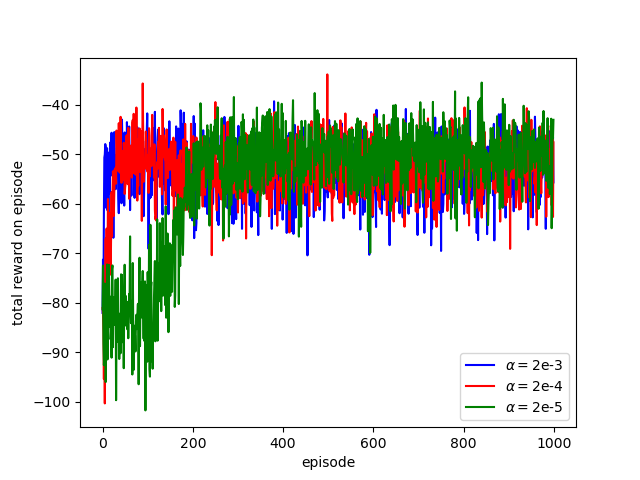
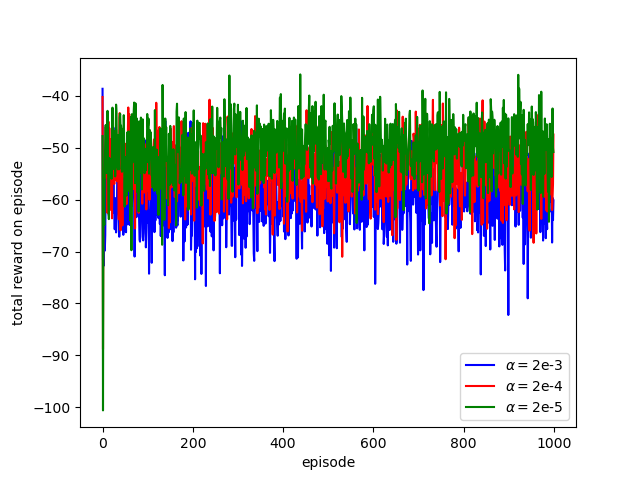
add reinforce w baseline

diff --git a/chapter-13/short_corridor.py b/chapter-13/short_corridor.py
@@ -13,40 +13,45 @@ from env import ShortCorridor
 
 class REINFORCE:
     '''
-    REINFORCE algorithm
+    REINFORCE agent
     '''
 
-    def __init__(self, env: ShortCorridor, 
-                alpha: float, 
+    def __init__(self, env: ShortCorridor,
                 gamma: float,
                 epsilon: float,
-                theta: np.ndarray):
+                alpha: float, 
+                n_eps: int) -> None:
         '''
-        Params
+        Parameters
         ------
-        env: ShortCorridor
-        alpha: step size
+        env: short-corridor env
         gamma: discount factor
-        theta: 
+        epsilon: exploration parameter
+        alpha: step size
+        n_eps: number of episodes
         '''
         self.env = env
-        self.alpha = alpha
         self.gamma = gamma
         self.epsilon = epsilon
-        self.theta = theta
+        self.alpha = alpha
+        self.n_eps = n_eps
+        self.theta = np.zeros(len(env.action_space))
         # feature mapping
         self.x = lambda s, a: np.array([int(a == self.env.action_space[1]), 
                                         int(a == self.env.action_space[0])])
+
+    def __call__(self, env: ShortCorridor,
+                gamma: float,
+                epsilon: float,
+                alpha: float, 
+                n_eps: int):
+        return REINFORCE(env, gamma, epsilon, alpha, n_eps)
 
 
     def preference(self, state: int, action: int) -> float:
         '''
         Linear action preferences
-
-        Params
-        ------
-        state: state of the agent
-        action: action taken at state @state
+            h(s,a,theta) = theta.dot(x)
         '''
         feature_vector = self.x(state, action)
         return self.theta.dot(feature_vector)
@@ -55,11 +60,7 @@ class REINFORCE:
     def pi(self, state: int, action: int) -> float:
         '''
         Softmax in action preferences
-
-        Params
-        ------
-        state: state of the agent
-        action: action taken at state @state
+            pi(s,a,theta) = exp(h(s,a,theta)) / sum_{b}exp(h(s,b,theta))
         '''
         def _softmax(zi, z):
             zmax = np.max(z)
@@ -81,15 +82,14 @@ class REINFORCE:
         action = self.env.action_space[1] \
             if np.random.binomial(1, pi[state][self.env.action_space[1]]) \
             else self.env.action_space[0]
-
-        # if not np.random.binomial(1, self.epsilon):
-        #     action = np.random.choice(self.env.action_space)
-        # else:
-        #     action = self.env.action_space[np.argmax(pi[state])]
         return action
 
 
     def eligibility_vector(self, state: int, action: int) -> np.ndarray:
+        '''
+        Compute eligibility vector
+            = x(s,a) - sum_{b}(pi(a|s) * x(s,b))
+        '''
         mean_feature = 0
         for action_ in self.env.action_space:
             mean_feature += self.pi(state, action_) * self.x(state, action_)
@@ -98,52 +98,139 @@ class REINFORCE:
 
 
     def update(self, state: int,
-                action: int, return_: float, step: int) -> None:
+                action: int, 
+                return_: float, 
+                step: int) -> None:
+        '''
+        Update theta
+            theta := theta + alpha * gamma^t * G * eligibility_vector
+
+        Parameters
+        ------
+        state: state of the agent at @step
+        action: action taken at @step
+        return_: discounted cumulative reward at @step
+        step: time step
+        '''
         eligibility_vector = self.eligibility_vector(state, action)
-        self.theta += self.alpha * (self.gamma**step) \
-                * return_ * eligibility_vector
+        a = self.alpha * (self.gamma**step) * return_ * eligibility_vector
+        self.theta += self.alpha * (self.gamma**step) * return_ * eligibility_vector
 
 
-    def run(self) -> float:
+    def run(self) -> np.ndarray:
         '''
-        Perform an episode
-        '''
-        state = self.env.reset()
-        trajectory = []
-        pi = [[self.pi(state_, action_) for action_ in self.env.action_space] \
-                    for state_ in self.env.state_space]
-        total_reward = 0
+        Perform a run
 
-        # Generate episode + compute cumulative rewards
-        while True:
-            action = self.select_action(state, pi)
-            next_state, reward, terminated = self.env.step(action)
+        Returns
+        -------
+        rewards: total reward on episodes
+        '''
+        rewards = np.zeros(self.n_eps)
+
+        for ep in range(self.n_eps):
+            state = self.env.reset()
+            trajectory = []
+            pi = [[self.pi(state_, action_) for action_ in self.env.action_space] \
+                        for state_ in self.env.state_space]
+
+            # Generate episode + compute cumulative rewards
+            while True:
+                action = self.select_action(state, pi)
+                next_state, reward, terminated = self.env.step(action)
+                for t in range(len(trajectory)):
+                    trajectory[t][3] += self.gamma**(len(trajectory) - t) * reward
+                trajectory.append([state, action, reward, reward])
+                if terminated:
+                    break
+                state = next_state
+
             for t in range(len(trajectory)):
-                trajectory[t][3] += self.gamma**(len(trajectory) - t) * reward
-            trajectory.append([state, action, reward, reward])
-            if terminated:
-                break
-            state = next_state
+                state, action, reward, return_ = trajectory[t]
+                self.update(state, action, return_, t)
+                rewards[ep] += reward
 
-        for t in range(len(trajectory)):
-            state, action, reward, return_ = trajectory[t]
-            self.update(state, action, return_, t)
-            total_reward += reward
-
-        return total_reward
+        return rewards
 
 
-if __name__ == '__main__':
-    n_states = 3
-    start_state = 0 
-    terminal_state = 3
-    switched_states = [1]
-    env = ShortCorridor(n_states, start_state, terminal_state, switched_states)
+class REINFORCEBaseline(REINFORCE):
+    '''
+    REINFORCE with baseline
+
+        Here we choose the approximate state-value function 
+            hat(v)(s,w) as the baseline and let hat(v) = w
+    '''
+
+    def __init__(self, env: ShortCorridor,
+                gamma: float,
+                epsilon: float,
+                alpha_w: float,
+                alpha: float,
+                n_eps: int) -> None:
+        '''
+        Parameters
+        ------
+        env: short-corridor env
+        gamma: discount factor
+        epsilon: exploration parameter
+        alpha_w: step size for w update
+        alpha: step size for theta update
+        n_eps: number of episodes
+        '''
+        super().__init__(env, gamma, epsilon, alpha, n_eps)
+        self.alpha_w = alpha_w
+        self.w = 0
+
+
+    def __call__(self, env: ShortCorridor,
+                gamma: float,
+                epsilon: float,
+                alpha_w: float,
+                alpha_theta: float,
+                n_ep: int):
+        return REINFORCEBaseline(env, gamma, epsilon, 
+            alpha_w, alpha_theta, n_eps)
+
+
+    def update(self, state: int,
+                action: int,
+                return_: float,
+                step: int) -> None:
+        '''
+        Update policy parameter theta, state-value weight w
+            delta = return - w
+            w := w + alpha_w * delta
+            theta := theta + alpha_theta * gamma^t * delta * eligibility_vector
+
+        Parameters
+        ------
+        state: state of the agent at @step
+        action: action taken at @step
+        return_: discounted cumulative reward at @step
+        step: time step
+        '''
+        delta = return_ - self.w
+        eligibility_vector = self.eligibility_vector(state, action)
+        self.w += self.alpha_w * delta
+        self.theta += self.alpha * self.gamma**step * delta * eligibility_vector
+
+
+def reinforce_plot(env: ShortCorridor,
+                gamma: float,
+                epsilon: float,
+                n_runs: int,
+                n_eps: int) -> None:
+    '''
+    Plot REINFORCE
+
+    Parameters
+    ----------
+    env: short-corridor env
+    gamma: discount factor
+    epsilon: exploration parameter
+    n_runs: number of runs
+    n_eps: number of episodes
+    '''
     alphas = [2e-3, 2e-4, 2e-5]
-    gamma = 1
-    epsilon = 0.05
-    n_runs = 100
-    n_eps = 1000
     rewards = np.zeros((len(alphas), n_runs, n_eps))
     colors = ['blue', 'red', 'green']
     labels = ['2e-3', '2e-4', '2e-5']
@@ -151,12 +238,8 @@ if __name__ == '__main__':
     for alpha_idx, alpha in enumerate(alphas):
 
         for run in trange(n_runs):
-            
-            theta = np.array([-1.47, 1.47])
-            for ep in range(n_eps):
-                reinforce = REINFORCE(env, alpha, gamma, epsilon, theta)
-                total_reward = reinforce.run()
-                rewards[alpha_idx, run, ep] = total_reward
+            reinforce = REINFORCE(env, gamma, epsilon, alpha, n_eps)
+            rewards[alpha_idx, run, :] = reinforce.run()
 
     for i in range(len(alphas)):
         plt.plot(np.arange(n_eps), rewards[i].mean(axis=0), \
@@ -165,6 +248,72 @@ if __name__ == '__main__':
     plt.ylabel('total reward on episode')
     plt.xlabel('episode')
     plt.legend(loc='lower right')
-
     plt.savefig('./short-corridor-reinforce.png')
     plt.close()
+
+
+def reinforce_baseline_plot(env: ShortCorridor,
+                gamma: float,
+                epsilon: float,
+                n_runs: int,
+                n_eps: int) -> None:
+    '''
+    Plot REINFORCE w/ baseline
+
+    Parameters
+    ----------
+    env: short-corridor env
+    gamma: discount factor
+    epsilon: exploration parameter
+    n_runs: number of runs
+    n_eps: number of episodes
+    '''
+    alpha = 2e-4
+    alpha_theta = 10 * alpha
+    alpha_w = 100 * alpha
+
+    methods = [
+        {
+            'agent': REINFORCEBaseline,
+            'name': 'REINFORCE with baseline',
+            'params': [env, gamma, epsilon, alpha_theta, alpha_w, n_eps]
+        },
+        {
+            'agent': REINFORCE,
+            'name': 'REINFORCE',
+            'params': [env, gamma, epsilon, alpha, n_eps]
+        }
+    ]
+
+    rewards = np.zeros((len(methods), n_runs, n_eps))
+
+    for i, method in enumerate(methods):
+        print(f'{method["name"]}')
+
+        for run in trange(n_runs):
+            agent = method['agent'](*method['params'])
+            rewards[i, run, :] = agent.run()
+
+    for i, method in enumerate(methods):
+        plt.plot(np.arange(n_eps), rewards[i].mean(axis=0), label=method['name'])
+
+    plt.ylabel('total reward on episode')
+    plt.xlabel('episode')
+    plt.legend(loc='lower right')
+    plt.savefig('./short-corridor-reinforce-baseline.png')
+    plt.close()
+
+
+if __name__ == '__main__':
+    n_states = 3
+    start_state = 0 
+    terminal_state = 3
+    switched_states = [1]
+    env = ShortCorridor(n_states, start_state, terminal_state, switched_states)
+    gamma = 1
+    epsilon = 0.05
+    n_runs = 100
+    n_eps = 1000
+
+    reinforce_plot(env, gamma, epsilon, n_runs, n_eps)
+    reinforce_baseline_plot(env, gamma, epsilon, n_runs, n_eps)

diff --git a/utils/env.py b/utils/env.py
@@ -607,3 +607,13 @@ class ShortCorridor(Env):
 
         return next_state, reward, terminated
 
+
+class BairdCounterexample(Env):
+    '''
+    Baird's counterexample
+    '''
+
+    def __init__(self, n_states: int) -> None:
+        self.n_states = n_states
+        self.state_space = np.arange(n_states)
+

diff --git a/chapter-11/counterexample.py b/chapter-11/counterexample.py
@@ -1,0 +1,4 @@
+import numpy as np
+import matplotlib.pyplot as plt
+
+

diff --git a/README.md b/README.md
@@ -117,6 +117,9 @@ Many ideas in the solutions are inspired by or taken from this well-known [repo]
 	- Code: [view](./chapter-10/access_control.py)
 	- Result: 
 #### Chapter 11: Off-policy Methods with Approximation
+- [ ] Baird's counterexample - 
+	- Code: [view](./chapter-11/counterexample.py)
+	- Result: 
 #### Chapter 12: Eligible Traces
 - [x] Random Walk - **Offline lambda-return**
 	- Code: [view](./chapter-12/random_walk.py)
@@ -140,6 +143,6 @@ Many ideas in the solutions are inspired by or taken from this well-known [repo]
 - [x] Short Corridor - **REINFORCE**
 	- Code: [view](./chapter-13/short_corridor.py)
 	- Result: [view](./chapter-13/short-corridor-reinforce.png)
-- [ ] Short Corridor - **REINFORCE w/ baseline**
+- [x] Short Corridor - **REINFORCE w/ baseline**
 	- Code: [view](./chapter-13/short_corridor.py)
 	- Result: [view](./chapter-13/short-corridor-reinforce-baseline.png)
